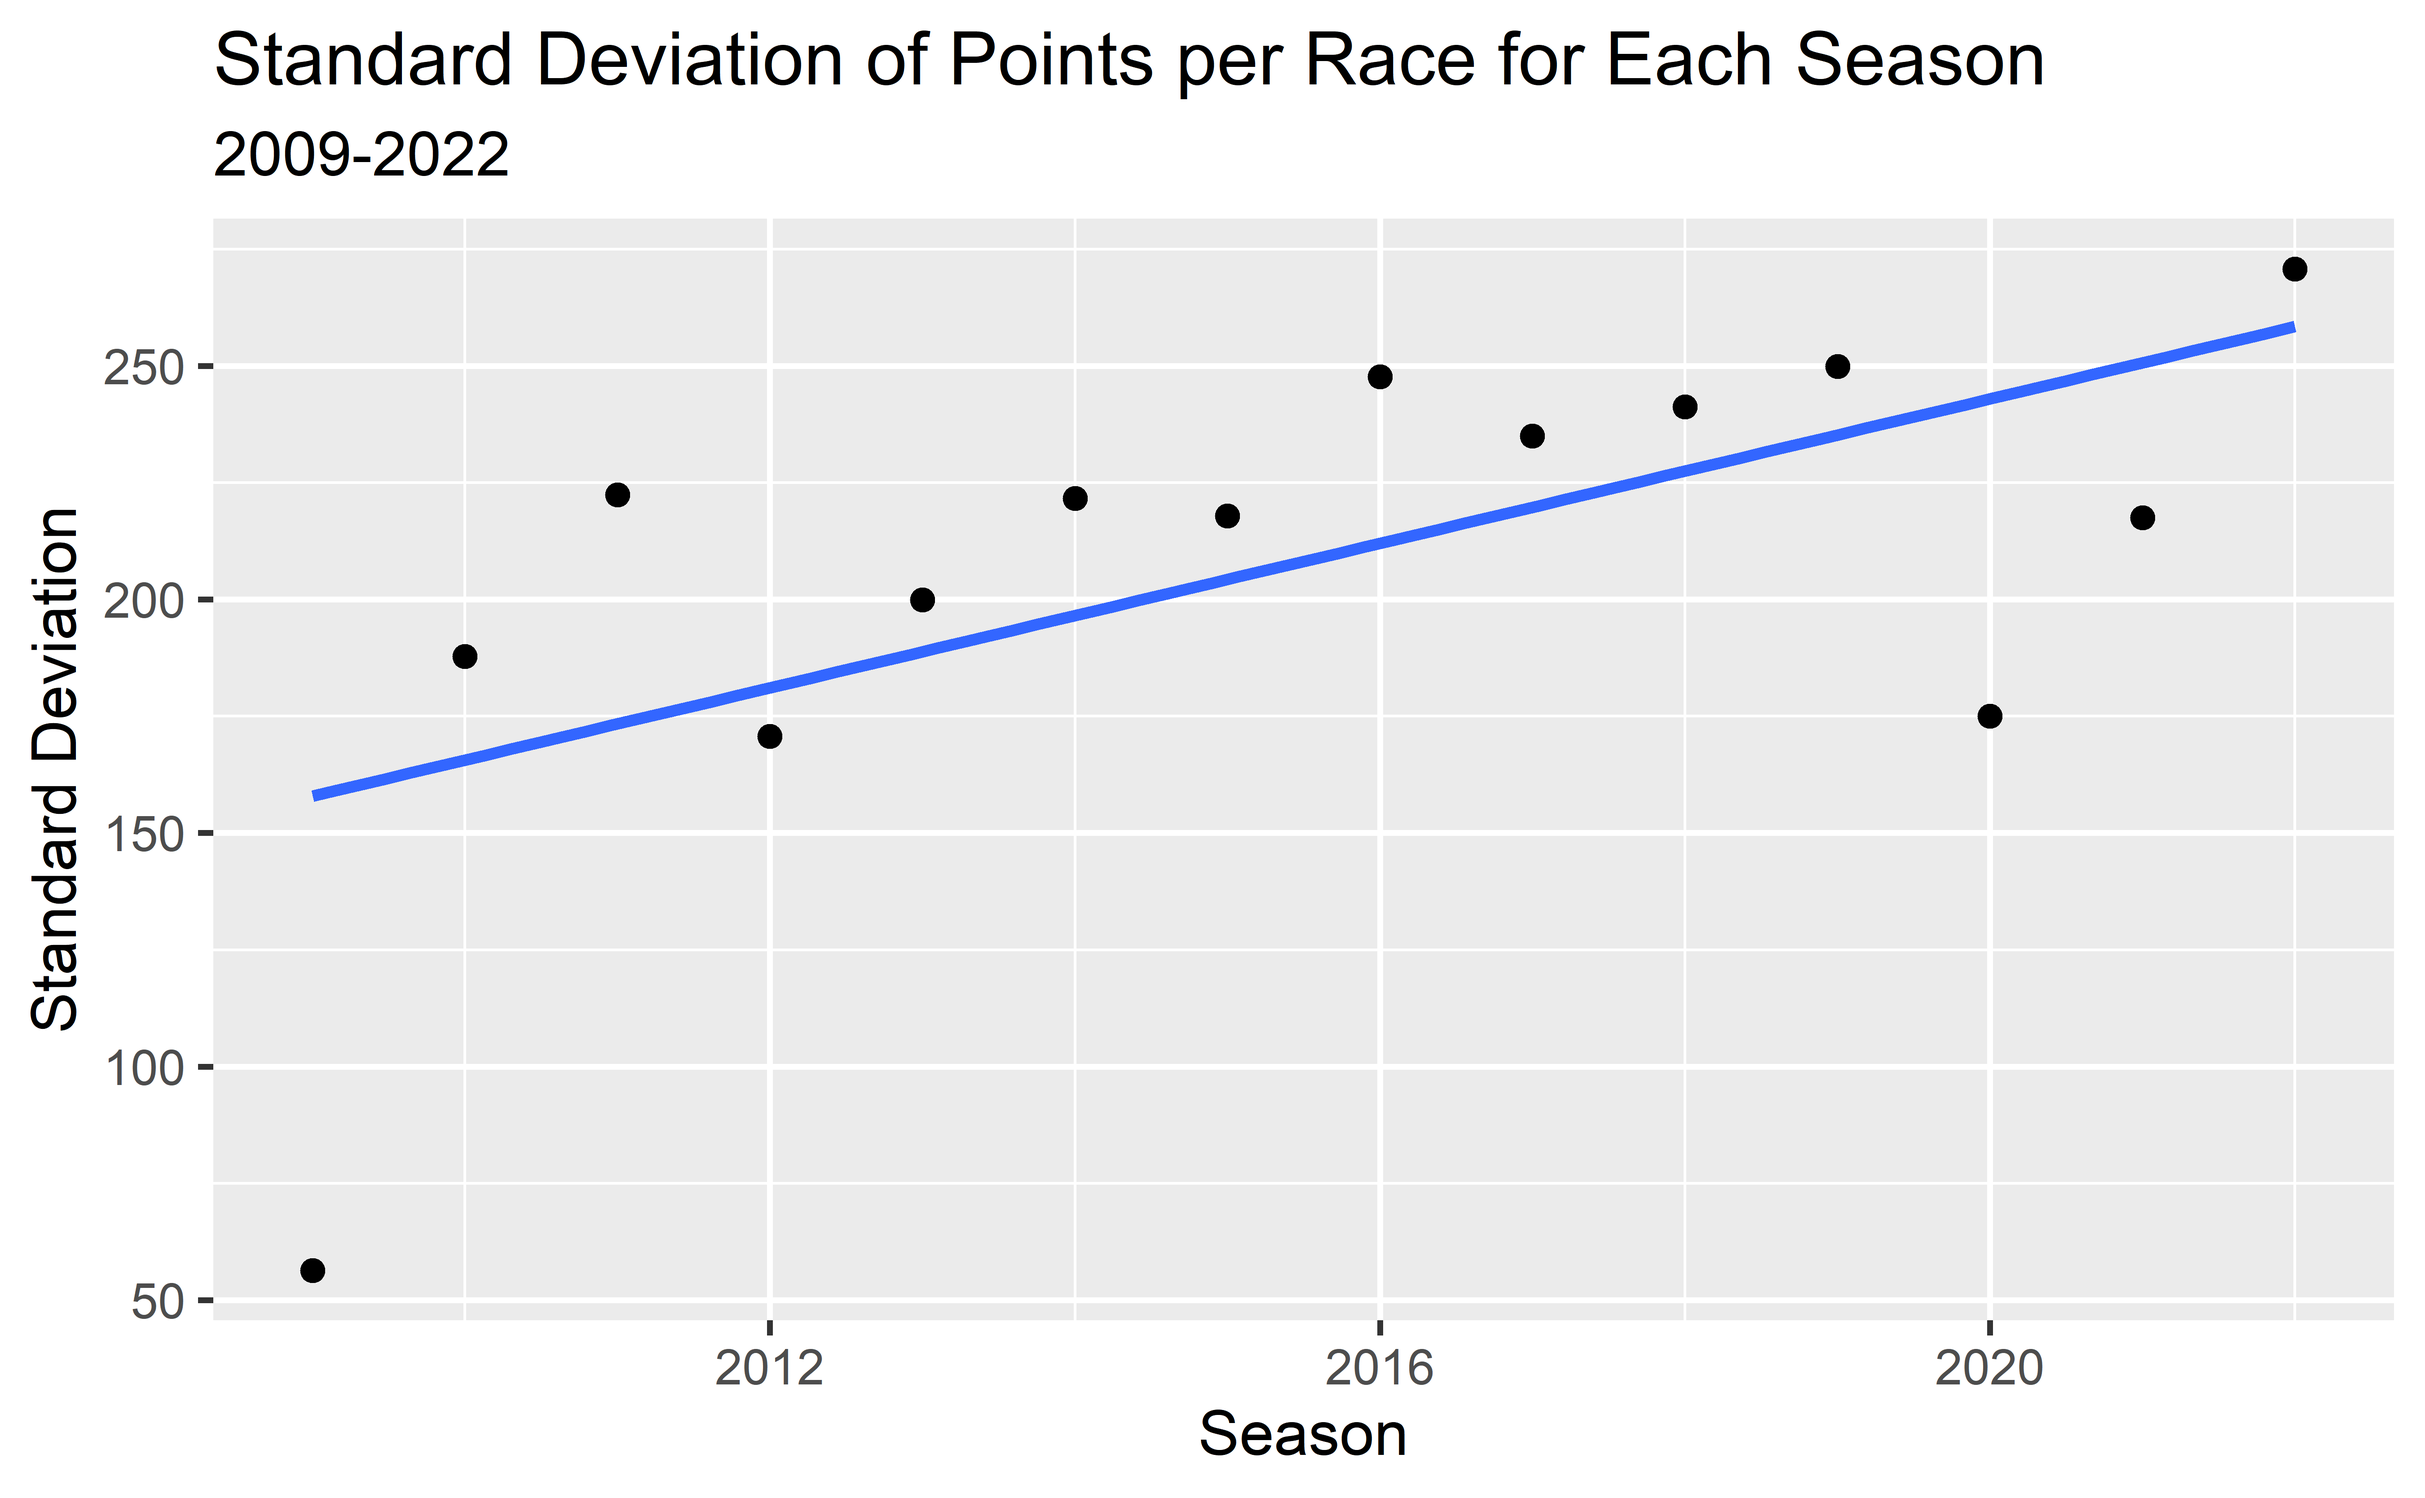
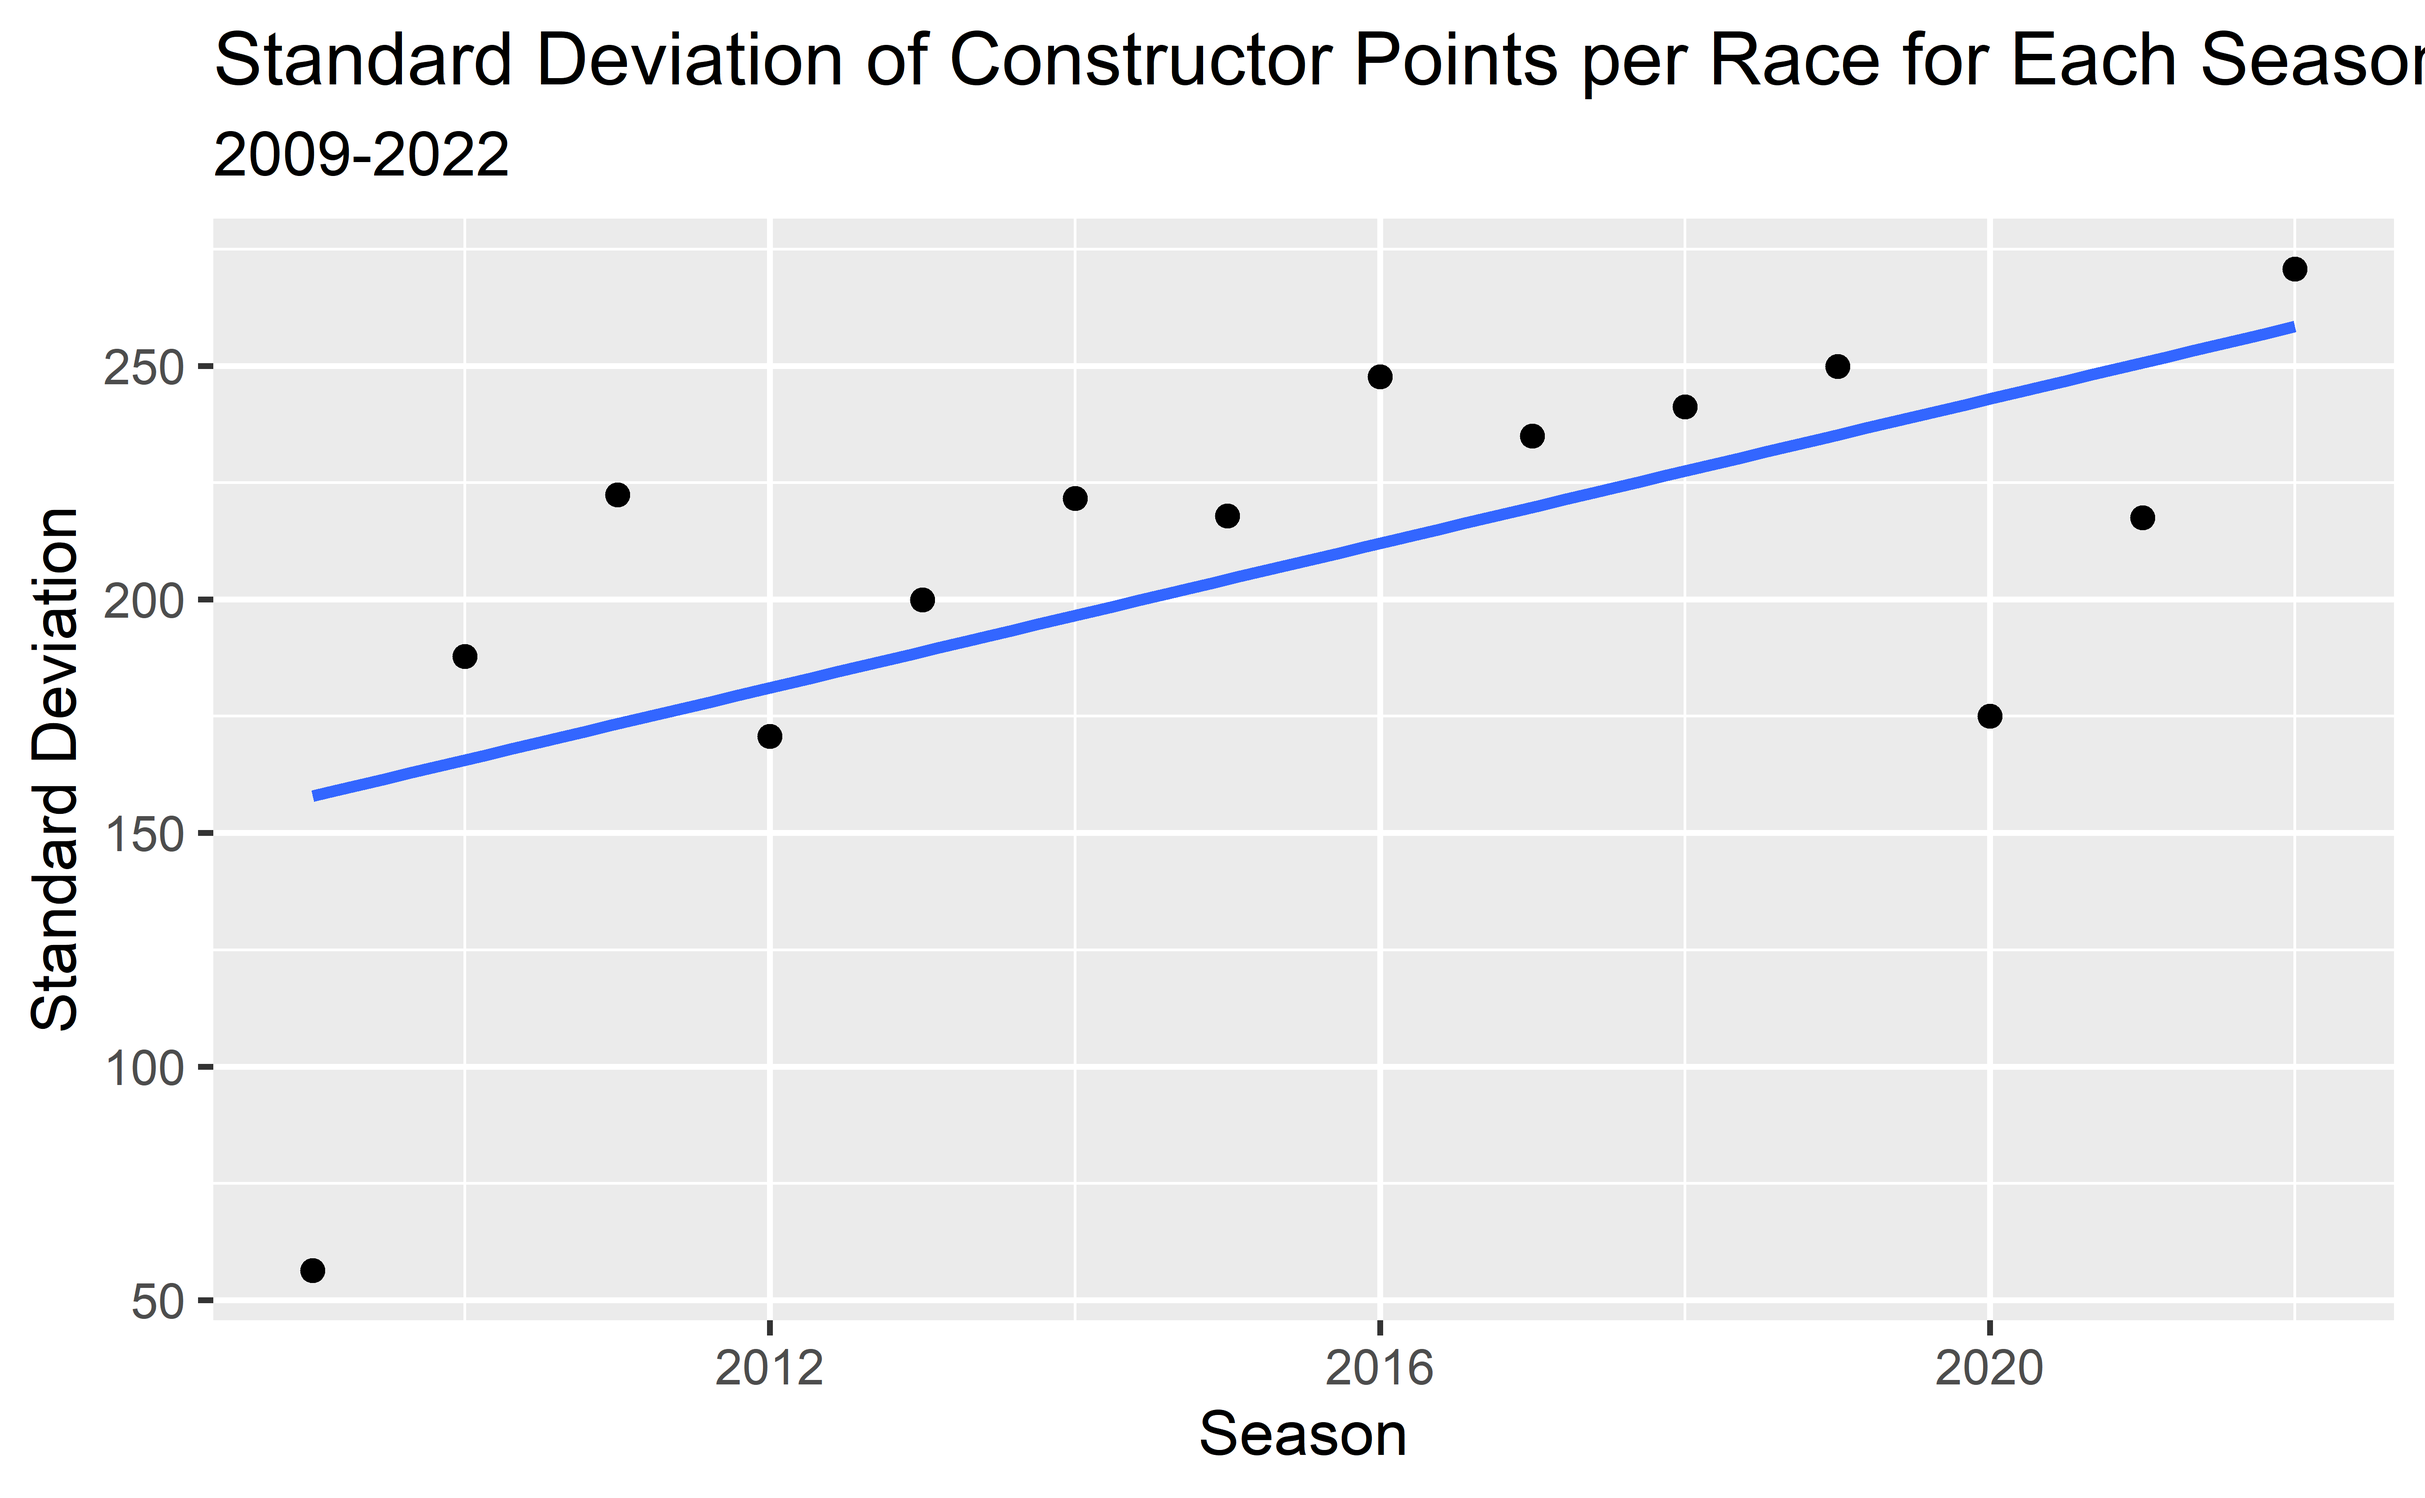
Adding graphs

Changed region(s): [[0.3733, 0.0, 1.0, 0.0623]]

diff --git a/presentation.html b/presentation.html
@@ -1,11 +1,11 @@
 <!DOCTYPE html>
 <html lang="" xml:lang="">
   <head>
-    <title>2022 F1 Regulations Improve Racing as Intended</title>
+    <title>Did the 2022 F1 Regulations Improve Racing as Intended</title>
     <meta charset="utf-8" />
-    <meta name="author" content="by Team-Name: Dimitri Rao, Fergus Towler, Eric Zhang, Moses Weintraub &amp; Alan Zang" />
+    <meta name="author" content="by Group 8: Dimitri Rao, Fergus Towler, Eric Zhang, Moses Weintraub &amp; Alan Zang" />
     <meta name="date" content="2023-11-30" />
-    <script src="libs/header-attrs-2.24/header-attrs.js"></script>
+    <script src="libs/header-attrs-2.25/header-attrs.js"></script>
     <link rel="stylesheet" href="xaringan-themer.css" type="text/css" />
   </head>
   <body>
@@ -13,13 +13,13 @@
 class: center, middle, inverse, title-slide
 
 .title[
-# 2022 F1 Regulations Improve Racing as Intended
+# Did the 2022 F1 Regulations Improve Racing as Intended
 ]
 .subtitle[
-## based on past racing data
+## based on data from 2009-2022
 ]
 .author[
-### by Team-Name: Dimitri Rao, Fergus Towler, Eric Zhang, Moses Weintraub &amp; Alan Zang
+### by Group 8: Dimitri Rao, Fergus Towler, Eric Zhang, Moses Weintraub &amp; Alan Zang
 ]
 .institute[
 ### University of Edinburgh
@@ -47,23 +47,8 @@ class: center, inverse
 background-image: url("img/slide2.jpg")
 background-size: cover
 
-#Figure out whether simply car bodies improve racing overall or not
+#Introduction
 
-
-
-
----
-
-class: center,inverse
-background-image: url("img/slide3.jpeg")
-background-size: cover
-
-
-## Introduction
-
---
-
-Due to introduce a budget cap and rules change in 2022 FORMULA 1, race cars have to use less complex and intricate bodies. This situation leads to less distribute airflow, in theory. Our project aim is seeking whether these new rules are precious or not.
 
 ---
 class: inverse
@@ -74,19 +59,19 @@ class: inverse
 
 class: center,inverse
 
-# How did we analyse
+# How did we analyse the data
 --
 
-# -race split
-
---
-
-# -Constructor/driver
-
+# -Race time split
 
 --
 
-# -Quali split
+# -Constructor/driver championship points
+
+
+--
+
+# -Qualifying Split Time
 
 ---
 
@@ -97,70 +82,46 @@ class: center,inverse
 ---
 
 
+## Constructor Points
+
+
+
+
+&lt;img src="presentation_files/figure-html/Constructor point-1.png" width="80%" /&gt;
+
+
+
+---
+
+
+##Driver Championship
+
+&lt;img src="presentation_files/figure-html/Standard diviation of Drivers-1.png" width="80%" /&gt;
+
+
+---
 ## Constructor Points and Driver Championship for each season
 
 
 
 
 .pull-left[
-&lt;img src="presentation_files/figure-html/Constructor point-1.png" width="80%" /&gt;
+&lt;img src="presentation_files/figure-html/unnamed-chunk-3-1.png" width="80%" /&gt;
 ]
-
-
-
-
 
 .pull-right[
-
-&lt;img src="presentation_files/figure-html/Standard diviation of Drivers-1.png" width="80%" /&gt;
+&lt;img src="presentation_files/figure-html/unnamed-chunk-4-1.png" width="80%" /&gt;
 ]
-
 ---
 
 
-##Quali split
+##Qualifying split time for Qualifying Session 3
 
 
-.pull-left[
-&lt;table&gt;
- &lt;thead&gt;
-  &lt;tr&gt;
-   &lt;th style="text-align:right;"&gt; mean_sd_q3 &lt;/th&gt;
-   &lt;th style="text-align:right;"&gt; Year &lt;/th&gt;
-  &lt;/tr&gt;
- &lt;/thead&gt;
-&lt;tbody&gt;
-  &lt;tr&gt;
-   &lt;td style="text-align:right;"&gt; 0.5593385 &lt;/td&gt;
-   &lt;td style="text-align:right;"&gt; 2009 &lt;/td&gt;
-  &lt;/tr&gt;
-  &lt;tr&gt;
-   &lt;td style="text-align:right;"&gt; 0.5742551 &lt;/td&gt;
-   &lt;td style="text-align:right;"&gt; 2010 &lt;/td&gt;
-  &lt;/tr&gt;
-  &lt;tr&gt;
-   &lt;td style="text-align:right;"&gt; 0.7144876 &lt;/td&gt;
-   &lt;td style="text-align:right;"&gt; 2011 &lt;/td&gt;
-  &lt;/tr&gt;
-  &lt;tr&gt;
-   &lt;td style="text-align:right;"&gt; 0.5275323 &lt;/td&gt;
-   &lt;td style="text-align:right;"&gt; 2012 &lt;/td&gt;
-  &lt;/tr&gt;
-  &lt;tr&gt;
-   &lt;td style="text-align:right;"&gt; 1.2529970 &lt;/td&gt;
-   &lt;td style="text-align:right;"&gt; 2013 &lt;/td&gt;
-  &lt;/tr&gt;
-  &lt;tr&gt;
-   &lt;td style="text-align:right;"&gt; 0.8389493 &lt;/td&gt;
-   &lt;td style="text-align:right;"&gt; 2014 &lt;/td&gt;
-  &lt;/tr&gt;
-&lt;/tbody&gt;
-&lt;/table&gt;
-]
 
-.pull-right[
+
 &lt;img src="presentation_files/figure-html/quali split graph-1.png" width="80%" /&gt;
-]
+
 
 ---
 
